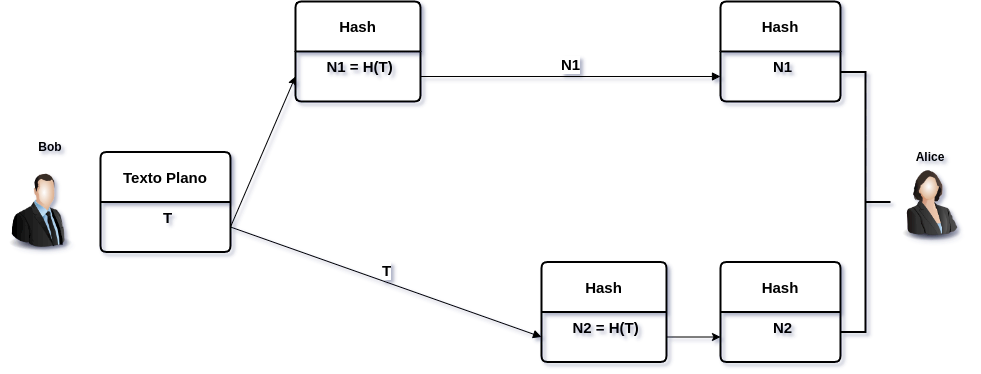
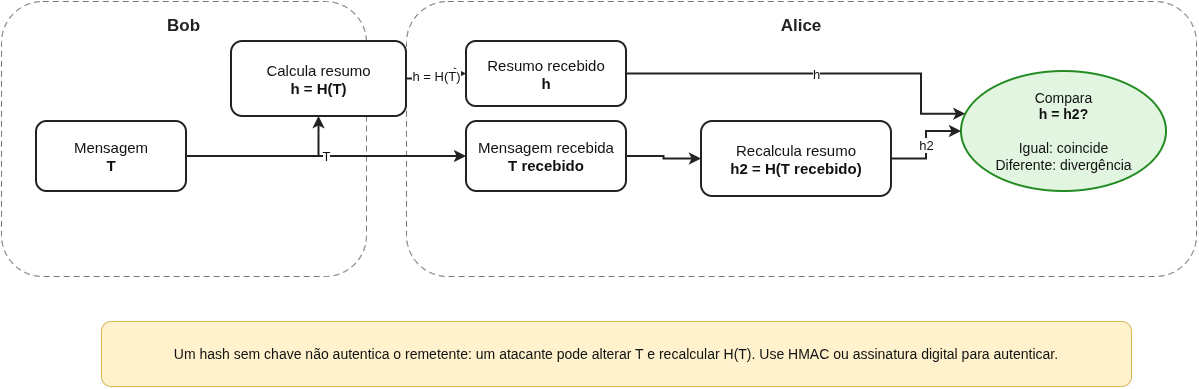
Corrige diagrama e explicação de hash

diff --git a/conceitos/criptografia.tex b/conceitos/criptografia.tex
@@ -414,61 +414,65 @@ Os comandos a seguir usam o OpenSSL para derivar uma chave com PBKDF2-HMAC-SHA-2
 % Página
 \section{Integridade}
 
-A Integridade diz respeito à precisão e consistência das informações ao longo de seu ciclo de vida. Este pilar assegura que os dados não sejam alterados de forma indevida, seja por erros acidentais ou por ações maliciosas. A integridade é mantida através de mecanismos de verificação, como somas de verificação, assinaturas digitais e funções de hash. Esses métodos permitem que qualquer alteração nos dados seja detectada, garantindo que a informação recebida é exatamente a mesma que foi enviada originalmente, sem modificações não autorizadas.
+A integridade trata da detecção de alterações indevidas nos dados. Funções de hash, MACs e assinaturas digitais podem apoiar essa verificação, mas oferecem garantias diferentes: um hash simples não autentica a origem, e seu uso para detectar adulteração deliberada depende de o resumo ser obtido por um meio confiável.
 \subsection{Hash}
 
 Um hash é uma função que transforma uma entrada de dados (que pode variar de alguns bytes a grandes volumes de dados) em uma saída de tamanho fixo, geralmente representada como uma sequência de caracteres alfanuméricos. Esta transformação é determinística, o que significa que a mesma entrada sempre produzirá a mesma saída.\\
 
 Alguns exemplos de algoritmos hash populares incluem a família de algoritmos SHA-2 (Secure Hash Algorithm 2), que inclui SHA-224, SHA-256, SHA-384 e SHA-512. Os algoritmos SHA-2 produzem hashes de diferentes tamanhos, sendo o SHA-256 e o SHA-512 os mais comuns, gerando valores de 256 e 512 bits, respectivamente.\\
 
-A Figura \ref{fig:hash} exemplifica a utilização do algoritmo de hash para verificar a integridade de uma informação enviada de \textbf{Bob} para \textbf{Alice}.\\
+A Figura \ref{fig:hash} mostra Bob enviando a mensagem e seu resumo para Alice. Ela calcula o resumo da mensagem recebida e compara os dois valores.\\
 
 \begin{figure}[H]
 	\centering
 	\includegraphics[scale=0.45]{hash.png}
-	\caption{Funcionamento do processo de utilização do algoritmo Hash}
+	\caption{Comparação de resumos para detectar divergências em uma mensagem}
 	\label{fig:hash}
 \end{figure}
 
-Inicialmente, \textbf{Bob} executa o algoritmo de hash sobre a mensagem e obtém o que normalmente é chamado de resumo. Tanto a mensagem quanto o resumo são enviados para \textbf{Alice}. \textbf{Alice} gera novamente o algoritmo de hash sobre a mensagem e compara o resultado do hash com o hash que foi enviado inicialmente por \textbf{Bob}. Se por acaso os valores forem iguais, então isso indica que não houve nenhum tipo de alteração na mensagem.\\
+Bob calcula \(h=H(T)\) e envia a mensagem \(T\) junto com o resumo \(h\). Alice calcula \(h_2=H(T_{\mathrm{recebido}})\) sobre a mensagem recebida e compara \(h_2\) com \(h\). Se forem diferentes, a mensagem recebida diverge daquela que corresponde ao resumo. Se forem iguais, isso apenas indica que a mensagem coincide com o resumo recebido; um hash simples enviado junto com a mensagem não impede que um atacante altere ambos e recalcule o resumo. Para autenticar a origem e proteger contra adulteração deliberada, use um HMAC com segredo compartilhado ou uma assinatura digital cuja chave pública de Bob seja autenticada. O hash não cifra a mensagem.\\
 
 \textbf{Prático}\\
 
-Abaixo estão exemplos de comandos utilizando o OpenSSL para realizar o processo de hash, e como é utilizado para gerar uma representação fixa de dados, independente do tamanho e do conteúdo original.
+O OpenSSL calcula resumos SHA-256 e SHA-512. Para comparar um arquivo com um resumo salvo, obtenha esse resumo por um meio confiável: se um atacante puder substituir tanto o arquivo quanto o resumo, a comparação não detectará a adulteração.
 
 \begin{enumerate}
-	\item Gerar um hash (hash.sha256) utilizando SHA-256
+	\item Salvar o resumo SHA-256 de \texttt{arquivo.txt}. O resumo de referência precisa vir de uma fonte confiável.
 	\begin{tcolorbox}[width=\textwidth]
 	{\small
 		\begin{verbatim}
-		$ openssl dgst -sha256 -out hash.sha256 arquivo.txt
+		$ openssl dgst -sha256 arquivo.txt | awk '{print $NF}' > hash.sha256
 		\end{verbatim}
 	}
 	\end{tcolorbox}
 
-	\item Verificar a integridade de um arquivo (arquivo.txt) comparando hashes
+	\item Comparar o resumo atual de \texttt{arquivo.txt} com o resumo SHA-256 salvo.
 	\begin{tcolorbox}[width=\textwidth]
 	{\small
 		\begin{verbatim}
-		$ openssl dgst -sha256 arquivo.txt
+		$ openssl dgst -sha256 arquivo.txt | awk '{print $NF}' | \
+		  cmp -s - hash.sha256 && echo "Resumo igual" || \
+		  { echo "Resumo divergente" >&2; exit 1; }
 		\end{verbatim}
 	}
 	\end{tcolorbox}
 
-	\item Gerar um hash (hash.sha512) utilizando SHA-512
+	\item Salvar o resumo SHA-512 de \texttt{arquivo.txt}. O resumo de referência precisa vir de uma fonte confiável.
 	\begin{tcolorbox}[width=\textwidth]
 	{\small
 		\begin{verbatim}
-		$ openssl dgst -sha512 -out hash.sha512 arquivo.txt
+		$ openssl dgst -sha512 arquivo.txt | awk '{print $NF}' > hash.sha512
 		\end{verbatim}
 	}
 	\end{tcolorbox}
 
-	\item Verificar a integridade de um arquivo (arquivo.txt) comparando hashes
+	\item Comparar o resumo atual de \texttt{arquivo.txt} com o resumo SHA-512 salvo.
 	\begin{tcolorbox}[width=\textwidth]
 	{\small
 		\begin{verbatim}
-		$ openssl dgst -sha512 arquivo.txt
+		$ openssl dgst -sha512 arquivo.txt | awk '{print $NF}' | \
+		  cmp -s - hash.sha512 && echo "Resumo igual" || \
+		  { echo "Resumo divergente" >&2; exit 1; }
 		\end{verbatim}
 	}
 	\end{tcolorbox}
